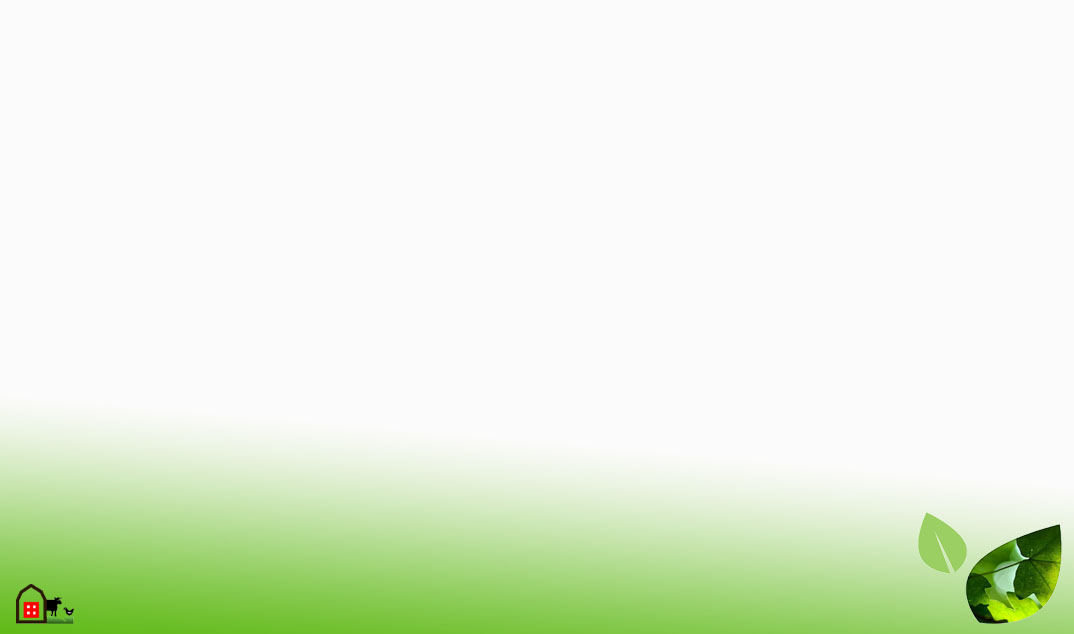
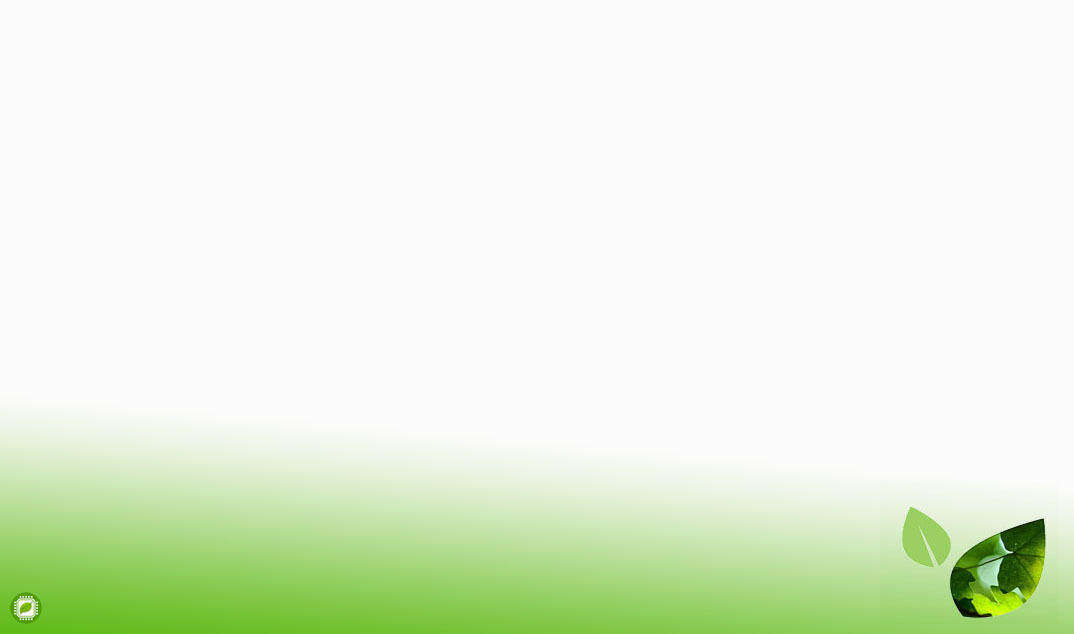
fellipe

Changed region(s): [[0.8296, 0.7792, 1.0, 0.989], [0.0, 0.929, 0.0922, 0.989]]

diff --git a/Trabalho_senai/src/outraJanelas/Principal.java b/Trabalho_senai/src/outraJanelas/Principal.java
@@ -48,6 +48,10 @@ import javax.swing.border.SoftBevelBorder;
 
 import javax.swing.border.BevelBorder;
 import javax.swing.JTextField;
+import java.awt.Window.Type;
+import java.awt.Dialog.ModalExclusionType;
+import org.eclipse.wb.swing.FocusTraversalOnArray;
+import java.awt.Component;
 //
 
 public class Principal {
@@ -55,6 +59,26 @@ public class Principal {
 	public static JFrame frmPrincipal;
 	static JButton button;
 	public static Fazenda fazenda = new Fazenda();
+	private JLabel lblNomeDoSistema;
+	private JButton btnAnimais;
+	private JLabel lblAnimais;
+	private JButton btnFuncionarios;
+	private JLabel lblFuncionarios;
+	private JButton btnCompras;
+	private JLabel lblCompras;
+	private JButton btnVendas;
+	private JLabel lblVendas;
+	private JButton btnUsuario;
+	private JLabel lblUsuario;
+	private JPanel panelSite;
+	private JLabel lblImgSite;
+	private JLabel lblSite;
+	private JPanel panelPdf;
+	private JLabel lblImgPdf;
+	private JLabel lblManual;
+	private JLabel lblVersao;
+	private JLabel lblNewLabel;
+	private JLabel foto;
 
 	/**
 	 * Launch the application.
@@ -95,7 +119,8 @@ public class Principal {
 		
 		
 		frmPrincipal = new JFrame();
-		frmPrincipal.setIconImage(Toolkit.getDefaultToolkit().getImage(Principal.class.getResource("/img/logo-pequena-sem-texto.png")));
+		frmPrincipal.setType(Type.POPUP);
+		frmPrincipal.setIconImage(Toolkit.getDefaultToolkit().getImage(Principal.class.getResource("/img/32x32.png")));
 		frmPrincipal.setTitle("Principal");
 		frmPrincipal.setBounds(100, 100, 1080, 720);
 		frmPrincipal.setDefaultCloseOperation(JFrame.EXIT_ON_CLOSE);
@@ -106,7 +131,7 @@ public class Principal {
 		Pergunta.main(null);
 		Pergunta.contador = 0;	
 		
-		JLabel lblNomeDoSistema = new JLabel("Nome do sistema");
+		lblNomeDoSistema = new JLabel("Nome do sistema");
 		lblNomeDoSistema.setBackground(Color.WHITE);
 		lblNomeDoSistema.setForeground(Color.DARK_GRAY);
 		lblNomeDoSistema.setFont(new Font("Tahoma", Font.BOLD, 20));
@@ -116,7 +141,7 @@ public class Principal {
 		
 		ImageIcon iconAnimal = new ImageIcon("src/img/vaca1.png");
 		iconAnimal.setImage(iconAnimal.getImage().getScaledInstance(135,101 ,100));
-		JButton btnAnimais = new JButton("");
+		btnAnimais = new JButton("");
 		btnAnimais.setBorderPainted(false);
 		btnAnimais.setCursor(Cursor.getPredefinedCursor(Cursor.HAND_CURSOR));
 		btnAnimais.addActionListener(new ActionListener() {
@@ -131,7 +156,7 @@ public class Principal {
 		btnAnimais.setIcon(iconAnimal);
 		frmPrincipal.getContentPane().add(btnAnimais);
 		
-		JLabel lblAnimais = new JLabel("Animais");
+		lblAnimais = new JLabel("Animais");
 		lblAnimais.setForeground(Color.DARK_GRAY);
 		lblAnimais.setFont(new Font("Tahoma", Font.BOLD, 12));
 		lblAnimais.setHorizontalAlignment(SwingConstants.CENTER);
@@ -140,7 +165,7 @@ public class Principal {
 		
 		ImageIcon iconFuncionarios = new ImageIcon("src/img/t3.png");
 		iconFuncionarios.setImage(iconFuncionarios.getImage().getScaledInstance(135, 101 ,100));
-		JButton btnFuncionarios = new JButton("");
+		btnFuncionarios = new JButton("");
 		btnFuncionarios.setCursor(Cursor.getPredefinedCursor(Cursor.HAND_CURSOR));
 		btnFuncionarios.setBorderPainted(false);
 		btnFuncionarios.addActionListener(new ActionListener() {
@@ -155,7 +180,7 @@ public class Principal {
 		btnFuncionarios.setIcon(iconFuncionarios);
 		frmPrincipal.getContentPane().add(btnFuncionarios);
 		
-		JLabel lblFuncionarios = new JLabel("Funcionarios");
+		lblFuncionarios = new JLabel("Funcionarios");
 		lblFuncionarios.setHorizontalAlignment(SwingConstants.CENTER);
 		lblFuncionarios.setForeground(Color.DARK_GRAY);
 		lblFuncionarios.setFont(new Font("Tahoma", Font.BOLD, 12));
@@ -164,7 +189,7 @@ public class Principal {
 		//aa
 		ImageIcon iconCompras = new ImageIcon("src/img/compra12.png");
 		iconCompras.setImage(iconCompras.getImage().getScaledInstance(135,101 ,100));
-		JButton btnCompras = new JButton("");
+		btnCompras = new JButton("");
 		btnCompras.setCursor(Cursor.getPredefinedCursor(Cursor.HAND_CURSOR));
 		btnCompras.setBorderPainted(false);
 		btnCompras.addActionListener(new ActionListener() {
@@ -178,7 +203,7 @@ public class Principal {
 		btnCompras.setIcon(iconCompras);
 		frmPrincipal.getContentPane().add(btnCompras);
 		
-		JLabel lblCompras = new JLabel("Compras");
+		lblCompras = new JLabel("Compras");
 		lblCompras.setHorizontalAlignment(SwingConstants.CENTER);
 		lblCompras.setForeground(Color.DARK_GRAY);
 		lblCompras.setFont(new Font("Tahoma", Font.BOLD, 12));
@@ -187,7 +212,7 @@ public class Principal {
 		
 		ImageIcon iconVendas = new ImageIcon("src/img/t1.png");
 		iconVendas.setImage(iconVendas.getImage().getScaledInstance(135,101 ,100));
-		JButton btnVendas = new JButton("");
+		btnVendas = new JButton("");
 		btnVendas.setCursor(Cursor.getPredefinedCursor(Cursor.HAND_CURSOR));
 		btnVendas.setBorderPainted(false);
 		btnVendas.addActionListener(new ActionListener() {
@@ -201,7 +226,7 @@ public class Principal {
 		btnVendas.setIcon(iconVendas);
 		frmPrincipal.getContentPane().add(btnVendas);
 		
-		JLabel lblVendas = new JLabel("Vendas");
+		lblVendas = new JLabel("Vendas");
 		lblVendas.setHorizontalAlignment(SwingConstants.CENTER);
 		lblVendas.setForeground(Color.DARK_GRAY);
 		lblVendas.setFont(new Font("Tahoma", Font.BOLD, 12));
@@ -210,7 +235,7 @@ public class Principal {
 		
 		ImageIcon iconUsuario = new ImageIcon("src/img/usu1.png");
 		iconUsuario.setImage(iconUsuario.getImage().getScaledInstance(135,101 ,100));
-		JButton btnUsuario = new JButton("");
+		btnUsuario = new JButton("");
 		btnUsuario.setCursor(Cursor.getPredefinedCursor(Cursor.HAND_CURSOR));
 		btnUsuario.setBorderPainted(false);
 		btnUsuario.addActionListener(new ActionListener() {
@@ -224,14 +249,14 @@ public class Principal {
 		btnUsuario.setIcon(iconUsuario);
 		frmPrincipal.getContentPane().add(btnUsuario);
 		
-		JLabel lblUsuario = new JLabel("Usuario");
+		lblUsuario = new JLabel("Usuario");
 		lblUsuario.setHorizontalAlignment(SwingConstants.CENTER);
 		lblUsuario.setForeground(Color.DARK_GRAY);
 		lblUsuario.setFont(new Font("Tahoma", Font.BOLD, 12));
 		lblUsuario.setBounds(920, 207, 120, 14);
 		frmPrincipal.getContentPane().add(lblUsuario);
 		
-		JPanel panelSite = new JPanel();
+		panelSite = new JPanel();
 		panelSite.addMouseListener(new MouseAdapter() {
 			@Override
 			public void mouseClicked(MouseEvent arg0) {
@@ -252,14 +277,14 @@ public class Principal {
 		
 		ImageIcon iconSite = new ImageIcon("src/img/WWW-Icon.png");
 		iconSite.setImage(iconSite.getImage().getScaledInstance(40, 40 ,100));
-		JLabel lblImgSite = new JLabel("");
+		lblImgSite = new JLabel("");
 		panelSite.add(lblImgSite, BorderLayout.WEST);
 		lblImgSite.setIcon(iconSite);
 		
-		JLabel lblSite = new JLabel("  www.fodase.com");
+		lblSite = new JLabel("  www.fodase.com");
 		panelSite.add(lblSite, BorderLayout.CENTER);
 		
-		JPanel panelPdf = new JPanel();
+		panelPdf = new JPanel();
 		panelPdf.addMouseListener(new MouseAdapter() {
 			@Override
 			public void mouseClicked(MouseEvent e) {
@@ -280,27 +305,27 @@ public class Principal {
 		
 		ImageIcon iconPdf = new ImageIcon("src/img/pdf.png");
 		iconPdf.setImage(iconPdf.getImage().getScaledInstance(40, 40, 100));
-		JLabel lblImgPdf = new JLabel("");
+		lblImgPdf = new JLabel("");
 		panelPdf.add(lblImgPdf, BorderLayout.WEST);
 		lblImgPdf.setIcon(iconPdf);
 		
-		JLabel lblManual = new JLabel("  Manual");
+		lblManual = new JLabel("  Manual");
 		panelPdf.add(lblManual, BorderLayout.CENTER);
 		
-		JLabel lblVersao = new JLabel("Versao 2.0");
+		lblVersao = new JLabel("Versao 2.0");
 		lblVersao.setForeground(Color.BLACK);
 		lblVersao.setHorizontalAlignment(SwingConstants.RIGHT);
 		lblVersao.setBounds(984, 645, 80, 14);
 		frmPrincipal.getContentPane().add(lblVersao);
 		
-		JLabel lblNewLabel = new JLabel("Todos os direitos reservados \u00A92017-2018");
+		lblNewLabel = new JLabel("Todos os direitos reservados \u00A92017-2018");
 		lblNewLabel.setFont(new Font("Tahoma", Font.BOLD, 13));
 		lblNewLabel.setHorizontalAlignment(SwingConstants.CENTER);
 		lblNewLabel.setForeground(Color.WHITE);
 		lblNewLabel.setBounds(10, 590, 1054, 29);
 		frmPrincipal.getContentPane().add(lblNewLabel);
 		
-		JLabel foto = new JLabel("");
+		foto = new JLabel("");
 		foto.setCursor(Cursor.getPredefinedCursor(Cursor.DEFAULT_CURSOR));
 		foto.setIcon(new ImageIcon(Principal.class.getResource("/img/Teste2.jpg")));
 		foto.setFont(new Font("Tahoma", Font.BOLD, 11));
@@ -508,5 +533,6 @@ public class Principal {
 		
 		mnOpes.add(mntmSada);
 		frmPrincipal.getContentPane().setLayout(null);
+		frmPrincipal.setFocusTraversalPolicy(new FocusTraversalOnArray(new Component[]{frmPrincipal.getContentPane(), lblNomeDoSistema, btnAnimais, lblAnimais, btnFuncionarios, lblFuncionarios, btnCompras, lblCompras, btnVendas, lblVendas, btnUsuario, lblUsuario, panelSite, lblImgSite, lblSite, panelPdf, lblImgPdf, lblManual, lblVersao, lblNewLabel, foto, menuBar, mnInicio, mnNewMenu, mntmCadastrarAnimais, mntmCadastrarFuncionarios, mnNewMenu_1, mntmCompra, mntmNovaVenda, mntmTotal, mnOpes, mntmNovaFazenda, mntmMudarFazenda, mntmDeslogar, mntmEnviar, mntmSada}));
 	}
 }

diff --git a/Trabalho_senai/src/org/eclipse/wb/swing/FocusTraversalOnArray.java b/Trabalho_senai/src/org/eclipse/wb/swing/FocusTraversalOnArray.java
@@ -1,0 +1,92 @@
+/*******************************************************************************
+ * Copyright (c) 2011 Google, Inc.
+ * All rights reserved. This program and the accompanying materials
+ * are made available under the terms of the Eclipse Public License v1.0
+ * which accompanies this distribution, and is available at
+ * http://www.eclipse.org/legal/epl-v10.html
+ *
+ * Contributors:
+ *    Google, Inc. - initial API and implementation
+ *******************************************************************************/
+package org.eclipse.wb.swing;
+
+import java.awt.Component;
+import java.awt.Container;
+import java.awt.FocusTraversalPolicy;
+
+/**
+ * Cyclic focus traversal policy based on array of components.
+ * <p>
+ * This class may be freely distributed as part of any application or plugin.
+ * 
+ * @author scheglov_ke
+ */
+public class FocusTraversalOnArray extends FocusTraversalPolicy {
+	private final Component m_Components[];
+	////////////////////////////////////////////////////////////////////////////
+	//
+	// Constructor
+	//
+	////////////////////////////////////////////////////////////////////////////
+	public FocusTraversalOnArray(Component components[]) {
+		m_Components = components;
+	}
+	////////////////////////////////////////////////////////////////////////////
+	//
+	// Utilities
+	//
+	////////////////////////////////////////////////////////////////////////////
+	private int indexCycle(int index, int delta) {
+		int size = m_Components.length;
+		int next = (index + delta + size) % size;
+		return next;
+	}
+	private Component cycle(Component currentComponent, int delta) {
+		int index = -1;
+		loop : for (int i = 0; i < m_Components.length; i++) {
+			Component component = m_Components[i];
+			for (Component c = currentComponent; c != null; c = c.getParent()) {
+				if (component == c) {
+					index = i;
+					break loop;
+				}
+			}
+		}
+		// try to find enabled component in "delta" direction
+		int initialIndex = index;
+		while (true) {
+			int newIndex = indexCycle(index, delta);
+			if (newIndex == initialIndex) {
+				break;
+			}
+			index = newIndex;
+			//
+			Component component = m_Components[newIndex];
+			if (component.isEnabled() && component.isVisible() && component.isFocusable()) {
+				return component;
+			}
+		}
+		// not found
+		return currentComponent;
+	}
+	////////////////////////////////////////////////////////////////////////////
+	//
+	// FocusTraversalPolicy
+	//
+	////////////////////////////////////////////////////////////////////////////
+	public Component getComponentAfter(Container container, Component component) {
+		return cycle(component, 1);
+	}
+	public Component getComponentBefore(Container container, Component component) {
+		return cycle(component, -1);
+	}
+	public Component getFirstComponent(Container container) {
+		return m_Components[0];
+	}
+	public Component getLastComponent(Container container) {
+		return m_Components[m_Components.length - 1];
+	}
+	public Component getDefaultComponent(Container container) {
+		return getFirstComponent(container);
+	}
+}

diff --git a/Trabalho_senai/src/JanelasComtabil/Total.java b/Trabalho_senai/src/JanelasComtabil/Total.java
@@ -76,8 +76,6 @@ public class Total {//
 		static int teste = 0; 
 		static int x1=1;
 		private JScrollPane scrollPaneGasto;
-		private JTable table;
-		private JScrollPane scrollPane;
 		//tabela
 
 	/**
@@ -110,7 +108,7 @@ public class Total {//
 		
 		frmRelattio = new JFrame();
 		frmRelattio.setTitle("Relat\u00F3tio");
-		frmRelattio.setIconImage(Toolkit.getDefaultToolkit().getImage(Total.class.getResource("/img/logo-pequena-sem-texto.png")));
+		frmRelattio.setIconImage(Toolkit.getDefaultToolkit().getImage(Total.class.getResource("/img/32x32.png")));
 		frmRelattio.setBounds(100, 100, 1080, 720);
 		frmRelattio.setDefaultCloseOperation(JFrame.DISPOSE_ON_CLOSE);
 		frmRelattio.setResizable(false);
@@ -460,30 +458,6 @@ public class Total {//
 		btnNewButton.setBounds(590, 114, 89, 23);
 		frmRelattio.getContentPane().add(btnNewButton);
 		
-		scrollPane = new JScrollPane();
-		scrollPane.setBounds(10, 320, 537, 25);
-		frmRelattio.getContentPane().add(scrollPane);
-		
-		table = new JTable();
-		table.setModel(new DefaultTableModel(
-			new Object[][] {
-			},
-			new String[] {
-				"Produto", "Pre\u00E7o", "Data"
-			}
-		) {
-			boolean[] columnEditables = new boolean[] {
-				false, false, false
-			};
-			public boolean isCellEditable(int row, int column) {
-				return columnEditables[column];
-			}
-		});
-		table.getColumnModel().getColumn(0).setResizable(false);
-		table.getColumnModel().getColumn(1).setResizable(false);
-		table.getColumnModel().getColumn(2).setResizable(false);
-		scrollPane.setViewportView(table);
-		
 		JLabel label_1 = new JLabel("");
 		label_1.setIcon(new ImageIcon(Total.class.getResource("/img/Teste13.jpg")));
 		label_1.setBounds(0, -15, 1074, 670);
@@ -509,7 +483,7 @@ public class Total {//
 	
 	void colocaDadosNaTabelaGasto(ResultSet rs) {
 		
-		DefaultTableModel modelo = (DefaultTableModel) table.getModel();
+		DefaultTableModel modelo = (DefaultTableModel) tabelaGasto.getModel();
 		modelo.setNumRows(0);
 		
 		try {
@@ -518,19 +492,14 @@ public class Total {//
 				
 				//tabela
 				if (x1==1) {
-				if (scrollPane.getHeight()<250) {
+				if (scrollPaneGasto.getHeight()<250) {
 					
-					int tabel = table.getRowCount();
+					int tabel = tabelaGasto.getRowCount();
 					int linha = tabel*16;
 					int valor = 22+linha;
-					scrollPane.setBounds(10, 320, 537, valor);
-					System.out.println(table.getRowCount());
-					int vazio = tabelaGasto.getRowCount();
-					if (vazio < 0.) {
-						scrollPane.setVisible(false);
-							
-						
-					}
+					scrollPaneGasto.setBounds(10, 250, 519, valor);
+					System.out.println(tabelaGasto.getRowCount());
+					
 				}
 				//tabela
 			}
@@ -557,7 +526,7 @@ public class Total {//
 			if (x1==1) {
 			if (scrollPaneReceita.getHeight()<250) {
 				
-				int tabel = tabelaGasto.getRowCount();
+				int tabel = tabelaReceita.getRowCount();
 				int linha = tabel*16;
 				int valor = 22+linha;
 				scrollPaneReceita.setBounds(545, 250, 519, valor);
